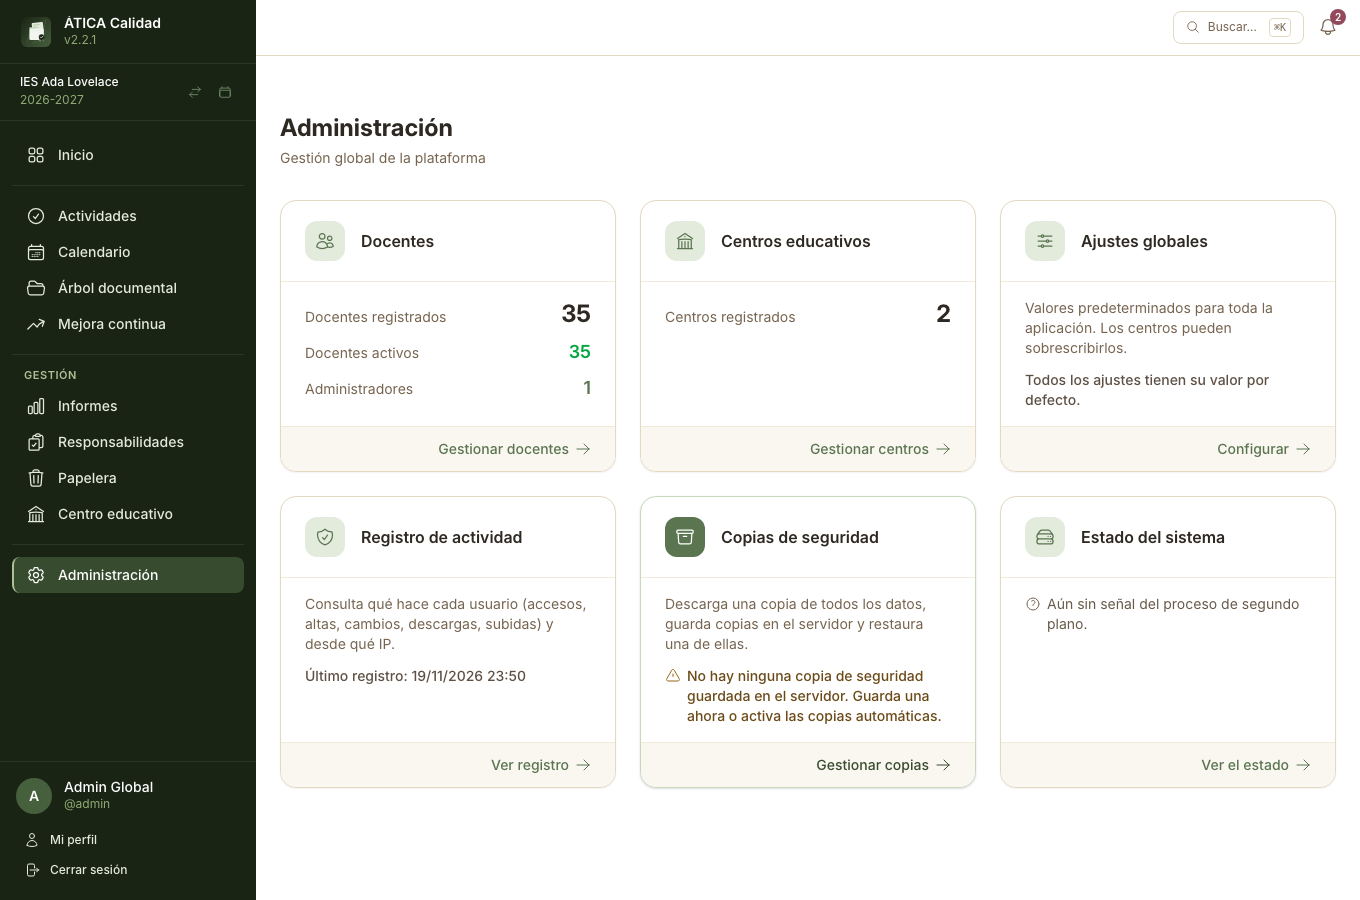
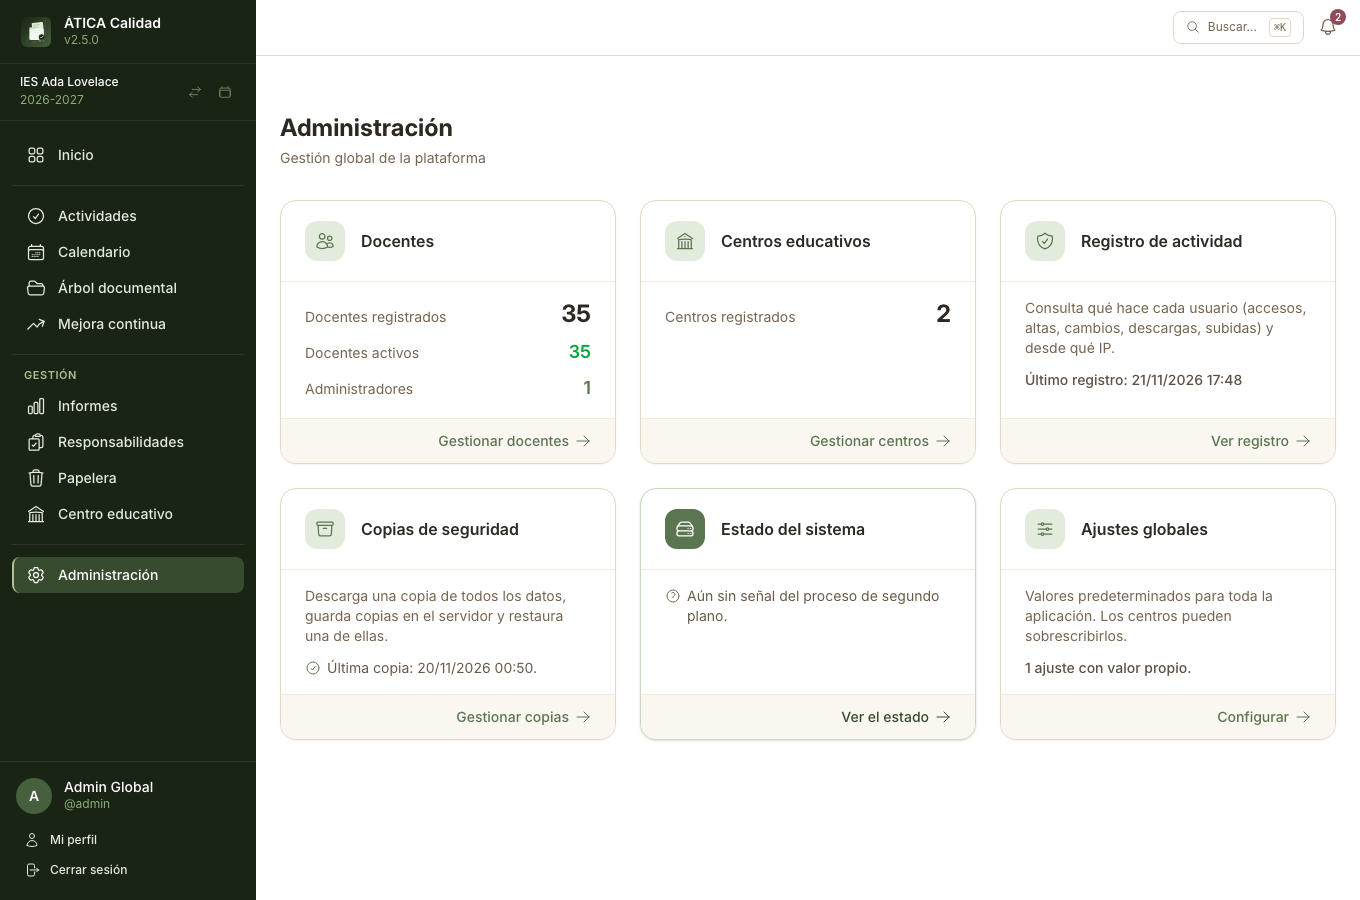
docs(manual): orden de las tarjetas de Administración y captura del panel

diff --git a/docs/manual/10-administrar-la-plataforma.md b/docs/manual/10-administrar-la-plataforma.md
@@ -6,13 +6,13 @@ sección **Administración**, con gestión de todos los centros alojados en el s
 ## El panel de administración
 
 **Administración**, al final del menú lateral, es la portada de este capítulo: una tarjeta por cada
-área (docentes, centros, ajustes, registro de actividad, copias de seguridad y estado del sistema) con
-un resumen de lo que gestiona y, en cada una, una línea de estado: las cifras de docentes y centros,
+área (docentes, centros, registro de actividad, copias de seguridad, estado del sistema y, siempre la
+última, los ajustes) con un resumen de lo que gestiona y, en cada una, una línea de estado: las cifras de docentes y centros,
 cuántos ajustes globales tienen un valor propio («1 ajuste con valor propio», o «Todos los ajustes tienen
 su valor por defecto»), cuándo se escribió el último registro de actividad, el aviso de la última copia
 de seguridad y la señal del proceso de segundo plano.
 
-![Panel de administración con las tarjetas Docentes (35 registrados, 35 activos, 1 administrador), Centros educativos (2), Ajustes globales y Registro de actividad](img/plataforma-panel.png)
+![Panel de administración con las tarjetas Docentes (35 registrados, 35 activos, 1 administrador), Centros educativos (2), Registro de actividad, Copias de seguridad, Estado del sistema y, la última, Ajustes globales](img/plataforma-panel.png)
 
 ### Centros educativos
 

diff --git a/CHANGELOG.md b/CHANGELOG.md
@@ -7,6 +7,11 @@ a [Semantic Versioning](https://semver.org/lang/es/).
 
 ## [Unreleased]
 
+### Changed
+- Ajustes de tipo PDF (plantillas de informes): el botón «Subir» solo aparece cuando se ha elegido o
+  arrastrado un fichero al recuadro, y desaparece si se quita.
+- Administración: la tarjeta de Ajustes pasa a ser siempre la última del panel.
+
 ## [2.5.0] - 2026-11-21
 
 Incluye una migración nueva (`Version20261121100000`: la columna `document_file_text.ocr_page` y el ajuste
